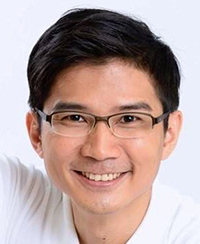
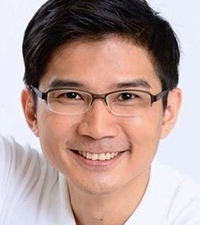
update photo. minor css.

diff --git a/src/components/CandidateBuns/CandidateBuns.scss b/src/components/CandidateBuns/CandidateBuns.scss
@@ -47,8 +47,8 @@
     border-bottom: 30px solid transparent;
 }
 .bunImg {
-	height: 90px;
-	width: 90px;
+	height: 80px;
+	width: 80px;
 	overflow: hidden;
 	margin: 0 auto 6px auto;
 }
